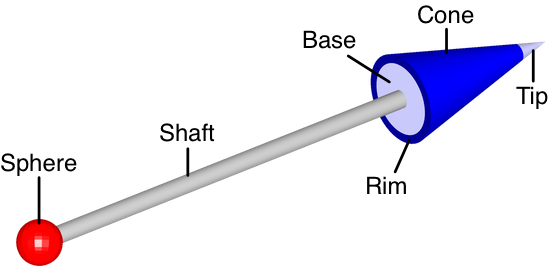
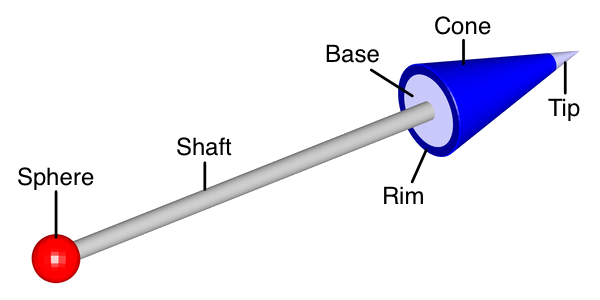
Add bevel

Changed region(s): [[0.0, 0.0, 1.0, 1.0], [0.2782, 0.4511, 0.4018, 0.5714]]

diff --git a/vector.m b/vector.m
@@ -16,7 +16,8 @@ function hGroup = vector(O, P, style, vect)
 %   Vector properties are based on the following vector components: the
 %   cone (arrowhead), the shaft, and an optional sphere marking the origin.
 %   The cone itself consists of the base, the rim, the outer cone surface,
-%   and the tip.
+%   and the tip. The cone is slightly beveled in order to improve its
+%   appearance at certain angles.
 %
 %          |<------------ Shaft ------------>|<---- Cone ---->|
 %
@@ -61,8 +62,8 @@ function hGroup = vector(O, P, style, vect)
 %      main color is the default color for all vector parts except for the
 %      base and the tip.
 %   'ConeColor'
-%      Color of the outer cone surface, specified as an RGB triplet. The
-%      default is the main color.
+%      Color of the outer cone surface including bevel, specified as an RGB
+%      triplet. The default is the main color.
 %   'RimColor'
 %      Color of the rim, specified as an RGB triplet. The default is the
 %      cone color.
@@ -96,18 +97,20 @@ function hGroup = vector(O, P, style, vect)
 %      point. Note that the default cone width and default cone length
 %      scale linearly with 'ShaftWidth'.
 %   'ConeWidth'
-%      Width (diameter) of the cone base incl. rim in points, where 1 point
-%      = 1/72 of an inch. The default is 12 times 'ShaftWidth'.
+%      Maximum width of the cone in points, where 1 point = 1/72 of an
+%      inch. The default is 12 times 'ShaftWidth'.
 %   'ConeLength'
 %      Full length of the cone in points, where 1 point = 1/72 of an inch.
-%      The default is 3 times 'ConeWidth'. Note that a cone appears in its
-%      full length only if the vector is parallel to the viewing plane.
+%      This does not include the cone bevel, which adds 0.5 points. The
+%      default is 3 times 'ConeWidth'. Note that a cone appears in its full
+%      length only if the vector is parallel to the viewing plane.
 %   'TipFraction'
 %      Ratio of the length of the tip to the full length of the cone,
 %      expressed as a fractional value between 0 and 1. The default is 0.2.
 %   'RimFraction'
-%      Ratio of the rim thickness to the radius of the cone, expressed as a
-%      fractional value between 0 and 1. The default is 0.167, which
+%      Ratio of the rim thickness to the rim radius, expressed as a
+%      fractional value between 0 and 1. The rim radius is half the cone
+%      width, minus the bevel of 0.5 points. The default is 0.18, which
 %      corresponds to a 1 point rim for the default vector.
 %   'NumPoints'
 %      Number of points around the vector circumference, specified as a
@@ -140,6 +143,7 @@ function hGroup = vector(O, P, style, vect)
 
 % Created 2021-04-26 by Jorg C. Woehl.
 % 2021-05-04 (JCW): First release version (v1.0).
+% 2021-05-13 (JCW): Added bevel to improve appearance at certain angles (v1.0.1).
 
 %% Input argument validation
 
@@ -161,7 +165,7 @@ arguments
     vect.ConeWidth double {mustBeScalarOrEmpty, mustBeFinite, mustBeNonnegative} = []
     vect.ConeLength double {mustBeScalarOrEmpty, mustBeFinite, mustBeNonnegative} = []
     vect.TipFraction (1,1) double {mustBeFinite, mustBeInRange(vect.TipFraction,0,1,'inclusive')} = 0.2
-    vect.RimFraction (1,1) double {mustBeFinite, mustBeInRange(vect.RimFraction,0,1,'inclusive')} = 0.167
+    vect.RimFraction (1,1) double {mustBeFinite, mustBeInRange(vect.RimFraction,0,1,'inclusive')} = 0.18
     vect.NumPoints (1,1) double {mustBeFinite, mustBeInteger, mustBeGreaterThan(vect.NumPoints,1)} = 50
 end
 
@@ -375,26 +379,31 @@ shaftWidth = vect.ShaftWidth*fh;
 coneWidth = vect.ConeWidth*fh;
 sphDia = vect.SphereDiameter*fh;
 coneLength = vect.ConeLength*fv;
+bevelLength = 0.5*fv;   % half point
+bevelWidth = 0.5*fh;    % half point
 
 % build upright blueprint vector in generalized coordinates [h1,h2,v]
 % with tip at origin and base at v = -coneLength
 % 1: tip apex
-% 1 to 2: tip
-% 2 to 3: outer cone surface
-% 3 to 4: rim
-% 4 to 5: base
-% 5 to 6: shaft
-% 6 to 7: end of shaft
-% 7: origin
+% 1 -> 2: tip
+% 2 -> 3: outer cone surface
+% 3 -> 4: cone bevel
+% 4 -> 5: rim
+% 5 -> 6: base
+% 6 -> 7: shaft
+% 7 -> 8: end of shaft
+
 % lateral vector surface coordinates
-[h1, h2, ~] = cylinder([0, coneWidth/2*fTip, coneWidth/2, coneWidth/2*(1-fRim),...
+[h1, h2, ~] = cylinder([0, coneWidth/2*fTip, coneWidth/2, coneWidth/2-bevelWidth, (coneWidth/2-bevelWidth)*(1-fRim),...
     shaftWidth/2, shaftWidth/2, 0], vect.NumPoints);
-% start with all vertical vector surface coordinates set to zero
+
+% vertical vector surface coordinates, initially set to zero
 v = zeros(size(h1));
 % create tip section
 v(2,:) = v(2,:) - fTip*coneLength;
-% create base with rim
-v(3:5,:) = v(3:5,:) - coneLength;
+% create base with bevel and rim
+v(3,:) = v(3,:) - coneLength;
+v(4:6,:) = v(4:6,:) - (coneLength+bevelLength);
 
 % match generalized coordinates to selected axes
 if (max(f) == f(1))
@@ -415,21 +424,21 @@ end
 cVector = ones([size(xVector), 3]);
 % set tip and outer cone surface to cone color
 % (tip will later be assigned tip color if highlighted)
-cVector(1:2,:,1) = vect.ConeColor(1);
-cVector(1:2,:,2) = vect.ConeColor(2);
-cVector(1:2,:,3) = vect.ConeColor(3);
+cVector(1:3,:,1) = vect.ConeColor(1);
+cVector(1:3,:,2) = vect.ConeColor(2);
+cVector(1:3,:,3) = vect.ConeColor(3);
 % set rim to rim color
-cVector(3,:,1) = vect.RimColor(1);
-cVector(3,:,2) = vect.RimColor(2);
-cVector(3,:,3) = vect.RimColor(3);
+cVector(4,:,1) = vect.RimColor(1);
+cVector(4,:,2) = vect.RimColor(2);
+cVector(4,:,3) = vect.RimColor(3);
 % set base to base color
-cVector(4,:,1) = vect.BaseColor(1);
-cVector(4,:,2) = vect.BaseColor(2);
-cVector(4,:,3) = vect.BaseColor(3);
+cVector(5,:,1) = vect.BaseColor(1);
+cVector(5,:,2) = vect.BaseColor(2);
+cVector(5,:,3) = vect.BaseColor(3);
 % set shaft to main vector color
-cVector(5:7,:,1) = vect.Color(1);
-cVector(5:7,:,2) = vect.Color(2);
-cVector(5:7,:,3) = vect.Color(3);
+cVector(6:end,:,1) = vect.Color(1);
+cVector(6:end,:,2) = vect.Color(2);
+cVector(6:end,:,3) = vect.Color(3);
 
 %% Design sphere as origin marker
 
@@ -487,14 +496,14 @@ for n = 1:size(P,1)
     z = hVector.ZData*d(3);
     
     % move entire cone so that tip apex is in B
-    x(1:5,:) = x(1:5,:) + B(1);
-    y(1:5,:) = y(1:5,:) + B(2);
-    z(1:5,:) = z(1:5,:) + B(3);
+    x(1:6,:) = x(1:6,:) + B(1);
+    y(1:6,:) = y(1:6,:) + B(2);
+    z(1:6,:) = z(1:6,:) + B(3);
     
     % move entire shaft so that origin is in A
-    x(6:end,:) = x(6:end,:) + A(1);
-    y(6:end,:) = y(6:end,:) + A(2);
-    z(6:end,:) = z(6:end,:) + A(3);
+    x(7:end,:) = x(7:end,:) + A(1);
+    y(7:end,:) = y(7:end,:) + A(2);
+    z(7:end,:) = z(7:end,:) + A(3);
     
     % update vector coordinates with these values
     hVector.XData = x;
@@ -525,5 +534,5 @@ end
 if ~all(axLims == [ax.XLim ax.YLim ax.ZLim])
     % axis limits have changed while drawing vector(s) and sphere(s)
     warning('vector:AxisLimitsChanged',...
-        'Axis limits and vector dimensions have changed! Call ''vectorupdate'' or click on any vector to correct this issue.');
+        'Axis limits and vector dimensions have changed!\nCall ''vectorupdate'' or click on any vector to correct this problem.');
 end

diff --git a/README.md b/README.md
@@ -4,14 +4,14 @@
 
 _Vectors_ is a set of MATLAB tools for the creation of 3D (and 2D) scientific drawings and illustrations. It currently contains the following functions:
 
-- [**vector**](#vector) draws a fully customizable 3D vector
-- [**vectorupdate**](#vectorupdate) is a helper function that updates vector properties and restores the appearance of vectors that were inadvertently modified
+- [**vector**](#vector), which draws a fully customizable 3D vector,
+- [**vectorupdate**](#vectorupdate), a helper function that updates vector properties and restores the appearance of vectors that were inadvertently modified,
 
-and the utility function [**points2axes**](https://www.mathworks.com/matlabcentral/fileexchange/90012-points2axes)
+and the utility function [**points2axes**](https://www.mathworks.com/matlabcentral/fileexchange/90012-points2axes).
 
 ## Purpose
 
-Producing high-quality illustrations and drawings in 3D for math-related disciplines is a surprisingly difficult endeavour due to the lack of dedicated illustration software. 
+Producing high-quality illustrations and drawings in 3D for math-related disciplines is a surprisingly difficult endeavor due to the lack of dedicated illustration software. 
 
 _PowerPoint_ has some built-in drawing capabilities that are easy to use but limited in scope, while more capable vector-based drawing programs such as _Adobe Illustrator_ or _Inkscape_ have steep learning curves. Most importantly, all of these tools are designed for drawing on two-dimensional canvases and do not inherently support 3D scenes or 3D rendering and shading. CAD software is better suited for this purpose, but is notoriously difficult to learn and too cumbersome for purely illustrative purposes. Research scientists and science instructors alike often have to juggle between these and other programs to obtain the desired results.
 
@@ -23,7 +23,7 @@ The _Vectors_ toolkit is compatible with MATLAB R2021a and later releases.
 
 ## Feedback
 
-Any feedback or suggestions for improvement are welcome!
+Any feedback or suggestions are welcome!
 
 # **vector**
 
@@ -35,7 +35,7 @@ Any feedback or suggestions for improvement are welcome!
  
 `H = vector(O,P,...)` returns the handle `H` of a Group object containing the vector(s) from O to P.
  
-Vector properties are based on the following vector components: the cone (arrowhead), the shaft, and an optional sphere marking the origin. The cone itself consists of the base, the rim, the outer cone surface, and the tip.
+Vector properties are based on the following vector components: the cone (arrowhead), the shaft, and an optional sphere marking the origin. The cone itself consists of the base, the rim, the outer cone surface, and the tip. The cone is slightly beveled in order to improve its appearance at certain angles.
  
 ![vector](./assets/vector.png)
  
@@ -68,7 +68,7 @@ If a property is specified more than once (as in `style = 'rg'`), then only the 
 : Main color of the vector(s), specified as an RGB triplet; this overrides any color specified in `style`. The default is black. The main color is the default color for all vector parts except for the base and the tip.
 
 * `'ConeColor'`
-: Color of the outer cone surface, specified as an RGB triplet. The default is the main color.
+: Color of the outer cone surface including bevel, specified as an RGB triplet. The default is the main color.
 
 * `'RimColor'`
 : Color of the rim, specified as an RGB triplet. The default is the cone color.
@@ -92,17 +92,16 @@ If a property is specified more than once (as in `style = 'rg'`), then only the 
 : Width (diameter) of the shaft in points, where 1 point = 1/72 of an inch; this overrides any width specified in `style`. The default is 1 point. Note that the default cone width and default cone length scale linearly with `'ShaftWidth'`.
 
 * `'ConeWidth'`
-: Width (diameter) of the cone base incl. rim in points, where 1 point = 1/72 of an inch. The default is 12 times `'ShaftWidth'`.
+: Maximum width of the cone in points, where 1 point = 1/72 of an inch. The default is 12 times `'ShaftWidth'`.
 
 * `'ConeLength'`
-: Full length of the cone in points, where 1 point = 1/72 of an inch. The default is 3 times `'ConeWidth'`. Note that a cone appears in its full length only if the vector is parallel to the viewing plane.
+: Full length of the cone in points, where 1 point = 1/72 of an inch. This does not include the cone bevel, which adds 0.5 points. The default is 3 times `'ConeWidth'`. Note that a cone appears in its full length only if the vector is parallel to the viewing plane.
 
 * `'TipFraction'`
-:Ratio of the length of the tip to the full length of the cone, expressed as a fractional value between 0 and 1. The default is 0.2.
+: Ratio of the length of the tip to the full length of the cone, expressed as a fractional value between 0 and 1. The default is 0.2.
 
 * `'RimFraction'`
-: Ratio of the rim thickness to the radius of the cone, expressed as a fractional value between 0 and 1. The default is 0.167, which
-corresponds to a 1 point rim for the default vector.
+: Ratio of the rim thickness to the rim radius, expressed as a fractional value between 0 and 1. The rim radius is half the cone width, minus the bevel of 0.5 points. The default is 0.18, which corresponds to a 1 point rim for the default vector.
 
 * `'NumPoints'`
 : Number of points around the vector circumference, specified as a positive whole number. The minimum is 2; the default is 50.
@@ -115,7 +114,7 @@ Resizing the figure or axes will also change the vector dimensions. Call `vector
  
 Furthermore, **vector** needs access to the data aspect ratio, which is only reported by MATLAB if the (default) “stretch-to-fill” behavior is disabled. If necessary, **vector** will therefore change the data aspect ratio mode to `'manual'` and issue a warning. If the data aspect ratio is changed after a vector is drawn, call `vectorupdate` to restore the vector to its intended appearance.
  
-## Examples
+## Example
  
 ```matlab
 figure; view(-30, 15); axis equal; axis off; axis([-0.5 1 -0.5 1 -0.5 1]);
@@ -146,7 +145,7 @@ vector([0 0 0], [1 0 0; 0 1 0; 0 0 1], SphereDiameter=6, SphereColor=[1 0 0]);
 
 The figure and axes containing the restored or updated vectors will become the current figure and current axes, respectively, when `vectorupdate` is executed.
 
-## Examples
+## Example
  
 ```matlab
 % draw a 3D vector but let MATLAB automatically choose axis limits
@@ -156,7 +155,7 @@ vector([0 0 0], [3 3 3]);
 
 ![example2a](./assets/example2a.png)
 
-This vector is drawn based on the axis limits that are in place before **vector** is called, which are then adjusted by MATLAB in order to accommodate the new vector. Because this also affects the vector's appearance, **vector** issues a warning and suggests to call **vectorupdate** to correct this issue.
+The vector is drawn based on the axis limits that are in effect before **vector** is called. MATLAB automatically adjusts the limits in order to accommodate the new vector, which in turn affects the vector's appearance. Call **vectorupdate** to correct this problem, as recommended by the warning issued by **vector**.
 
 ```matlab
 % axis limits have changed -> vectorupdate; let's also change the color to red
